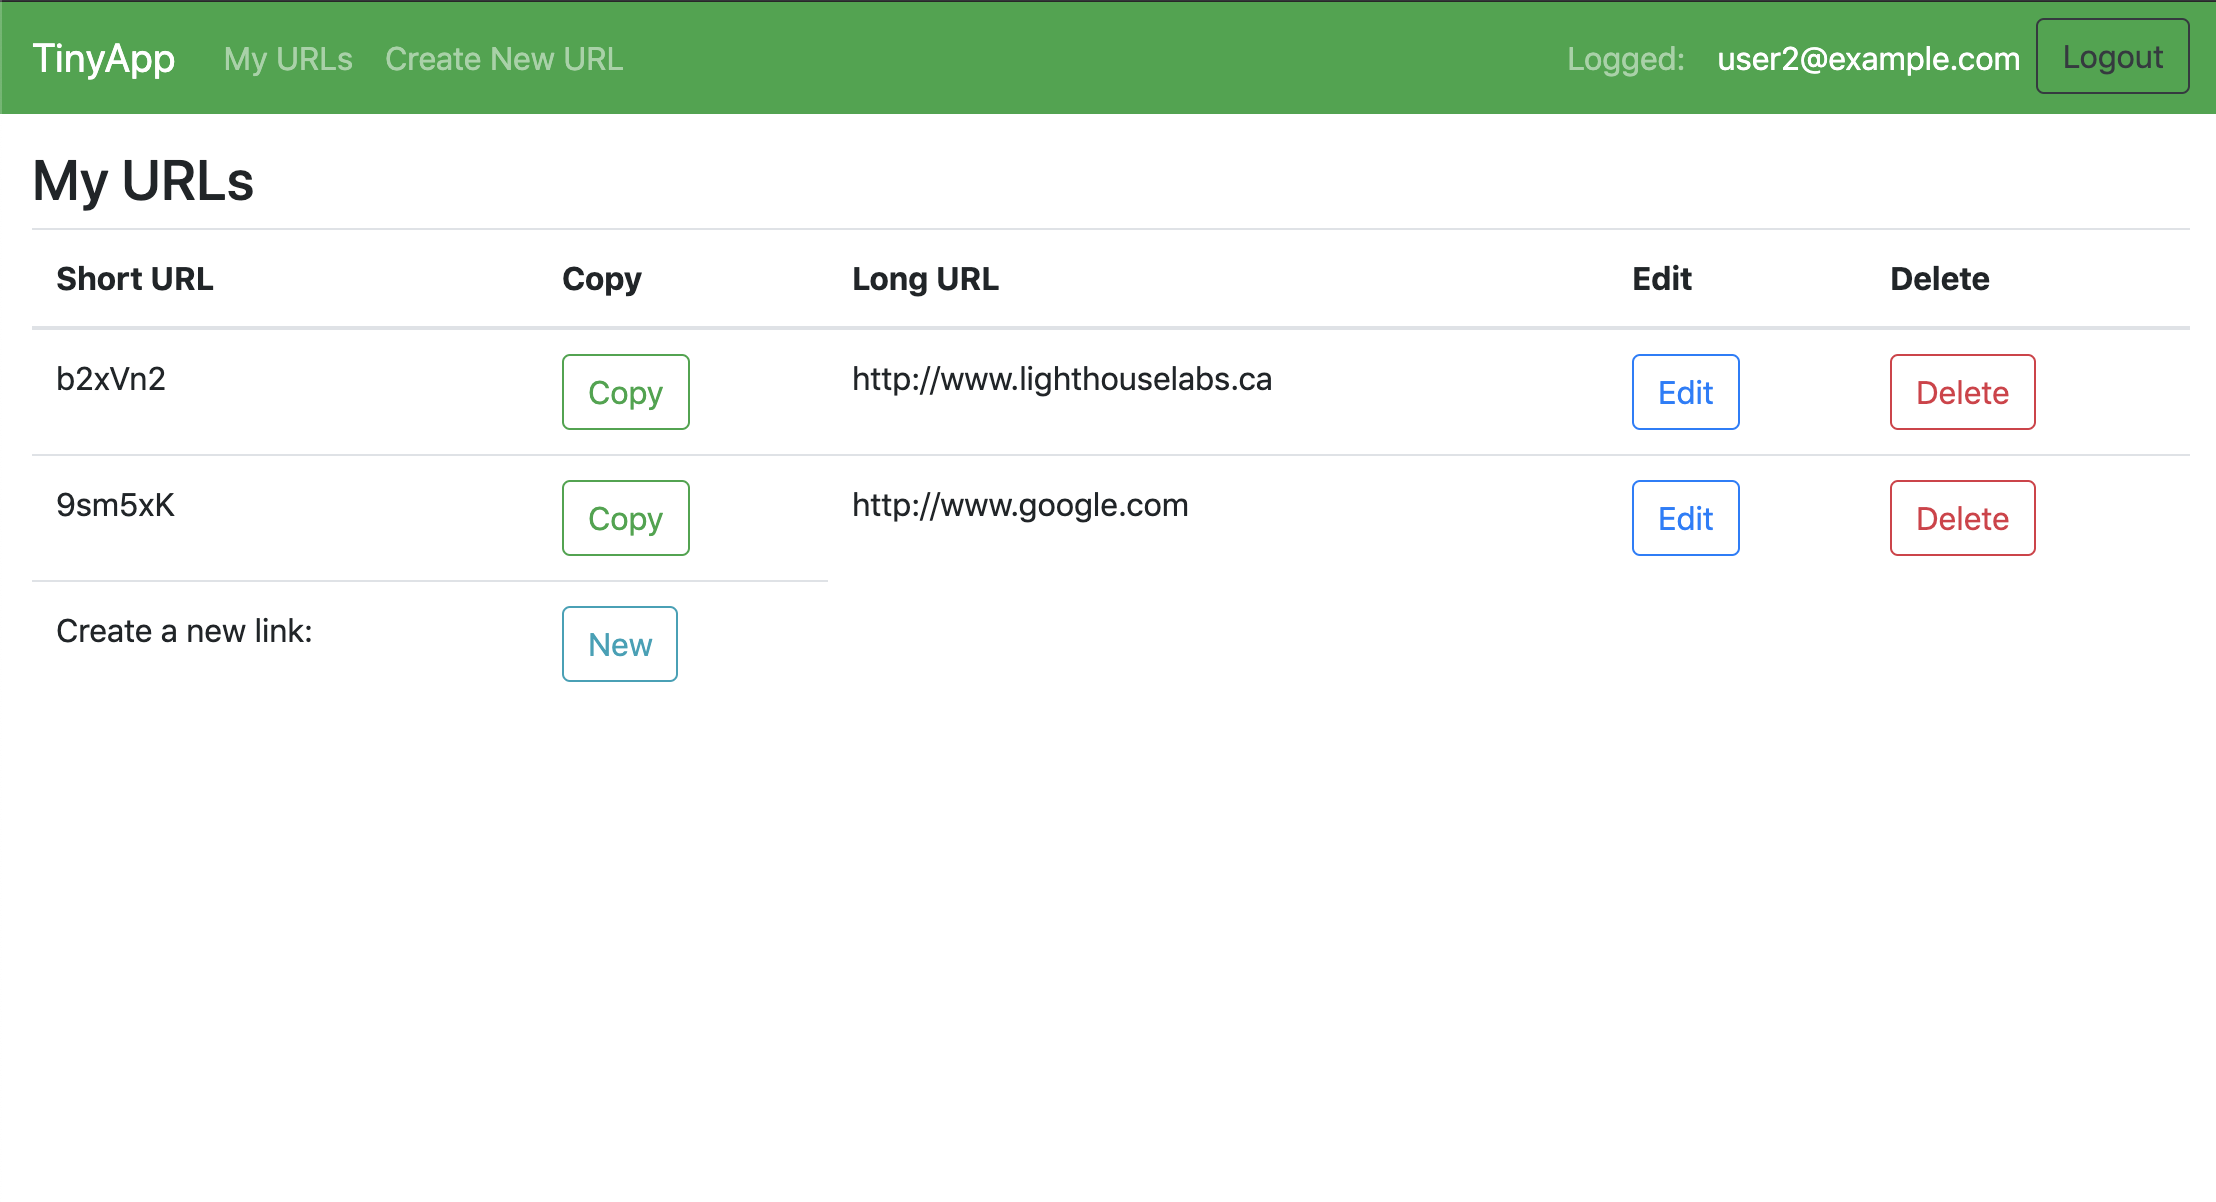
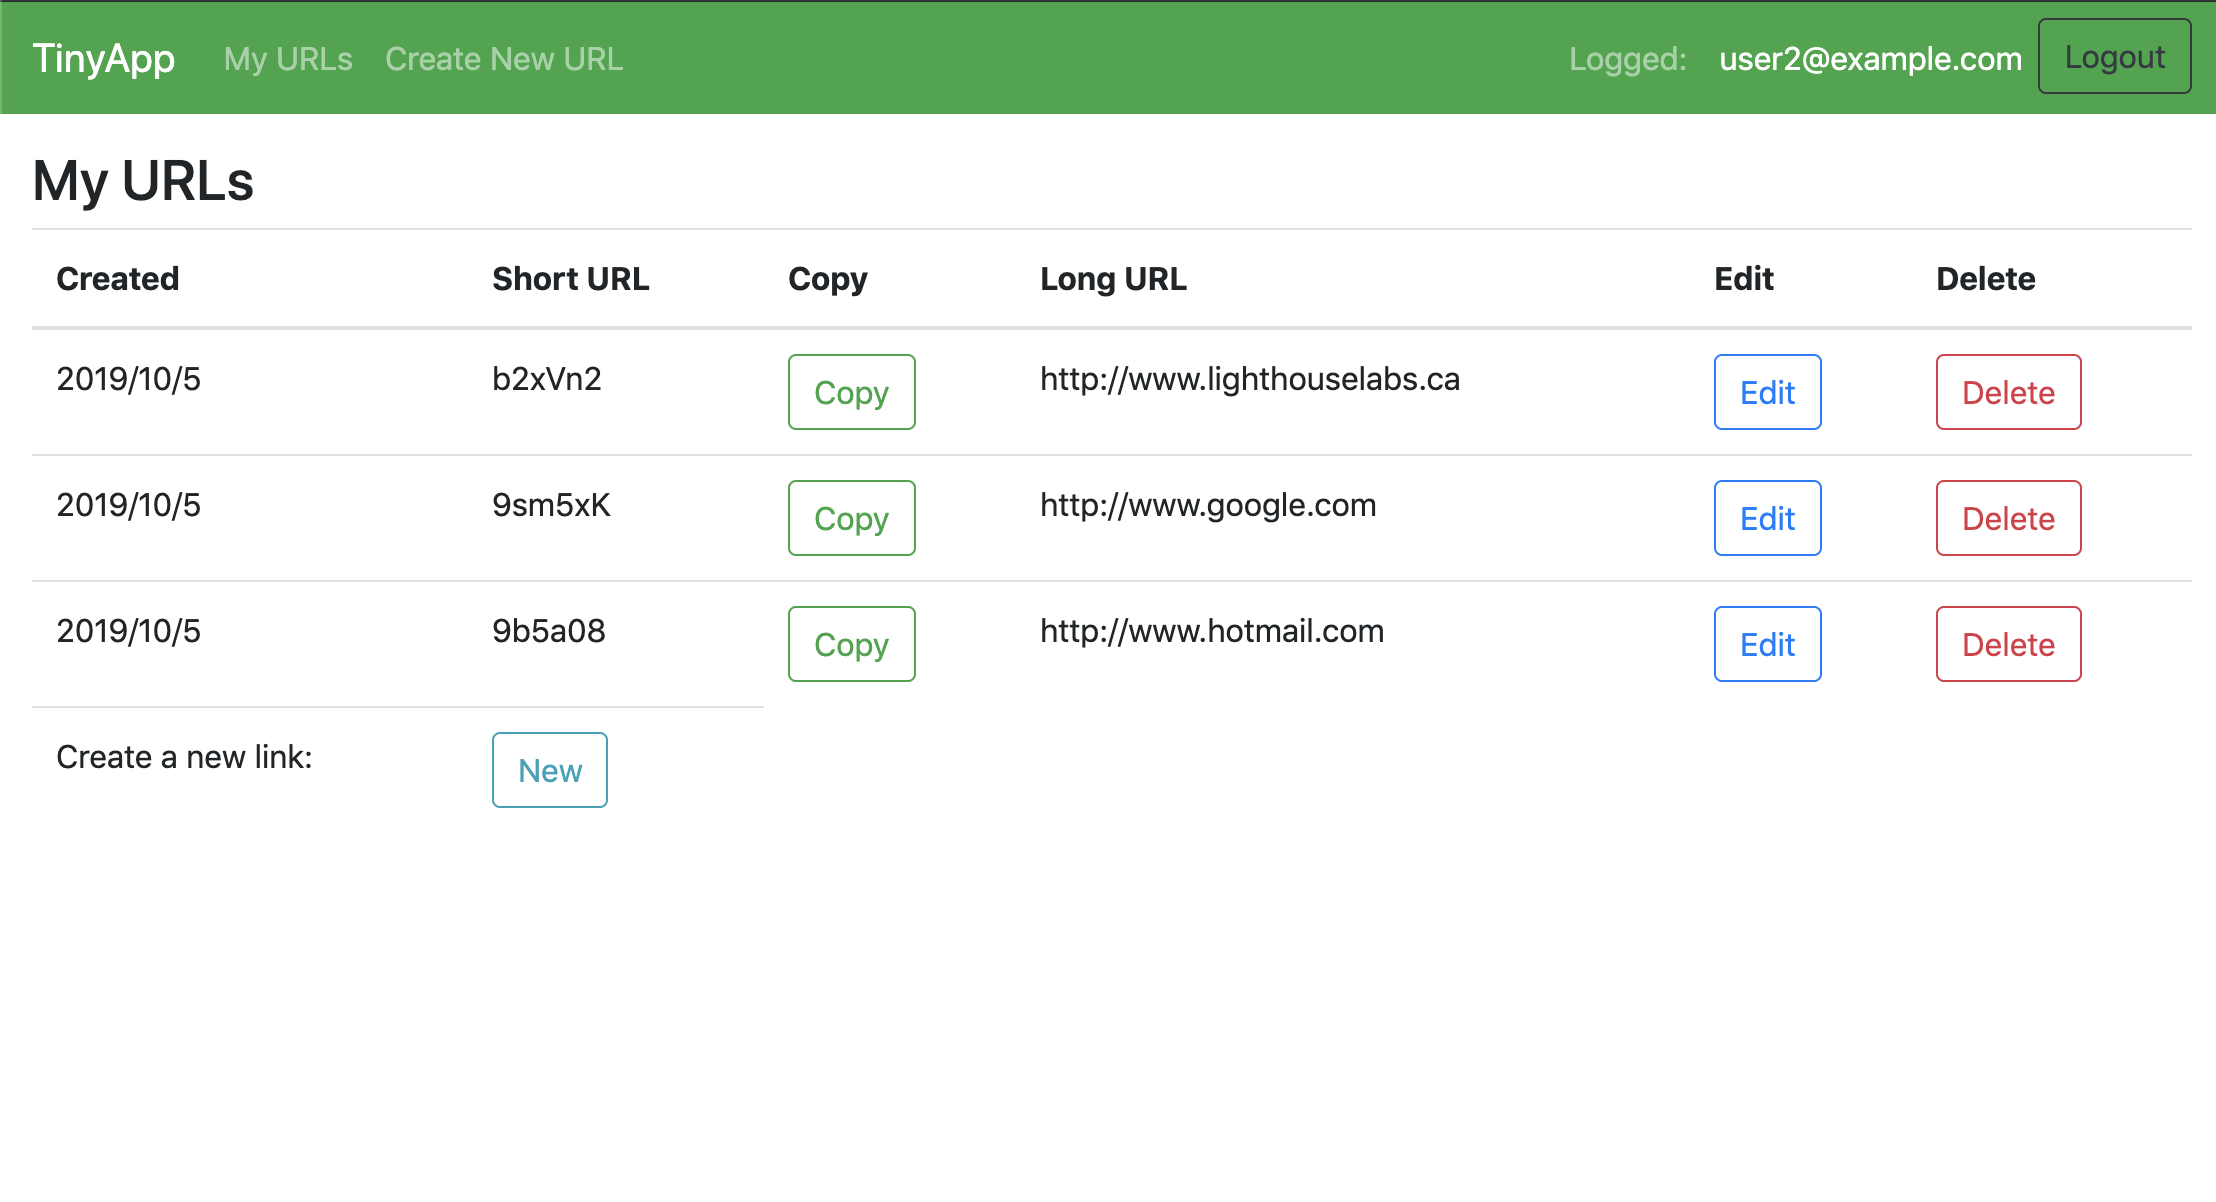
updated README and pictures

diff --git a/README.md b/README.md
@@ -1,6 +1,6 @@
 # TinyApp Project
 
-TinyApp is a full stack web application built with Node and Express that allows users to shorten long URLs (à la bit.ly).
+TinyApp is a full stack web application built with Node and Express that allows users to shorten long URLs (à la bit.ly). The app tracks the date links were created/edited, as well as the number of times a link has been used and the number of unique viewers have visited it. There is a coppy button to copy the short url links into the clipboard in addiition to the edit and delete options.
 
 ## Final Product
 
